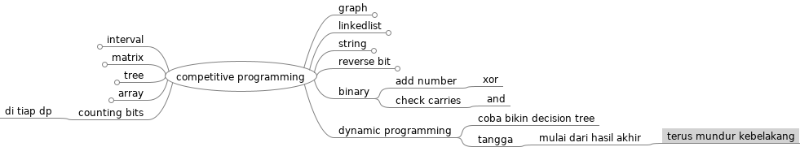
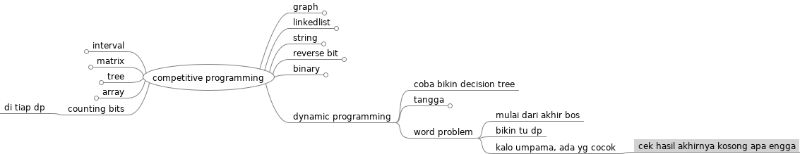
update lecture notes

Changed region(s): [[0.0, 0.0272, 1.0, 1.0]]

diff --git a/competitive programming.mm b/competitive programming.mm
@@ -275,7 +275,7 @@
 <node CREATED="1647526819761" ID="ID_1703423302" MODIFIED="1647526833683" TEXT="shift the pointer once more"/>
 </node>
 </node>
-<node CREATED="1647593401726" ID="ID_1652137666" MODIFIED="1647600457580" POSITION="right" TEXT="binary">
+<node CREATED="1647593401726" FOLDED="true" ID="ID_1652137666" MODIFIED="1647865870891" POSITION="right" TEXT="binary">
 <node CREATED="1647593404472" ID="ID_963020829" MODIFIED="1647593407714" TEXT="add number">
 <node CREATED="1647593407955" ID="ID_244391017" MODIFIED="1647593409411" TEXT="xor"/>
 </node>
@@ -288,9 +288,16 @@
 </node>
 <node CREATED="1647600651387" ID="ID_1025523125" MODIFIED="1647600656039" POSITION="right" TEXT="dynamic programming">
 <node CREATED="1647600656304" ID="ID_1974024964" MODIFIED="1647600662738" TEXT="coba bikin decision tree"/>
-<node CREATED="1647601284555" ID="ID_1631718421" MODIFIED="1647601286957" TEXT="tangga">
-<node CREATED="1647601287224" ID="ID_613786584" MODIFIED="1647601291574" TEXT="mulai dari hasil akhir">
+<node CREATED="1647601284555" FOLDED="true" ID="ID_1631718421" MODIFIED="1647865878586" TEXT="tangga">
+<node CREATED="1647601287224" FOLDED="true" ID="ID_613786584" MODIFIED="1647865876823" TEXT="mulai dari hasil akhir">
 <node CREATED="1647601292184" ID="ID_1320790711" MODIFIED="1647601297397" TEXT="terus mundur kebelakang"/>
+</node>
+</node>
+<node CREATED="1647865881297" ID="ID_194356346" MODIFIED="1647865886396" TEXT="word problem">
+<node CREATED="1647865886836" ID="ID_1393005993" MODIFIED="1647870870595" TEXT="mulai dari akhir bos"/>
+<node CREATED="1647870871169" ID="ID_174124848" MODIFIED="1647870874964" TEXT="bikin tu dp"/>
+<node CREATED="1647870875590" ID="ID_700316805" MODIFIED="1647870883767" TEXT="kalo umpama, ada yg cocok">
+<node CREATED="1647870884234" ID="ID_1775725141" MODIFIED="1647870898589" TEXT="cek hasil akhirnya kosong apa engga"/>
 </node>
 </node>
 </node>

diff --git a/german vocab training 2.mm b/german vocab training 2.mm
@@ -21,7 +21,9 @@
 <node CREATED="1647322109302" ID="ID_563349883" MODIFIED="1647322111502" TEXT="performance"/>
 <node CREATED="1647322111739" ID="ID_1906176839" MODIFIED="1647322114310" TEXT="kapasitas"/>
 </node>
-<node CREATED="1647855373068" ID="ID_124128241" MODIFIED="1647855377256" POSITION="right" TEXT="er.leb.en"/>
+<node CREATED="1647855373068" ID="ID_124128241" MODIFIED="1647855377256" POSITION="right" TEXT="er.leb.en">
+<node CREATED="1647855597756" ID="ID_986933051" MODIFIED="1647855602073" TEXT="to experience"/>
+</node>
 <node CREATED="1647855377559" ID="ID_1961866214" MODIFIED="1647855421682" POSITION="left" TEXT="der spielplatz">
 <node CREATED="1647855461700" ID="ID_145919055" MODIFIED="1647855464563" TEXT="playground"/>
 </node>
